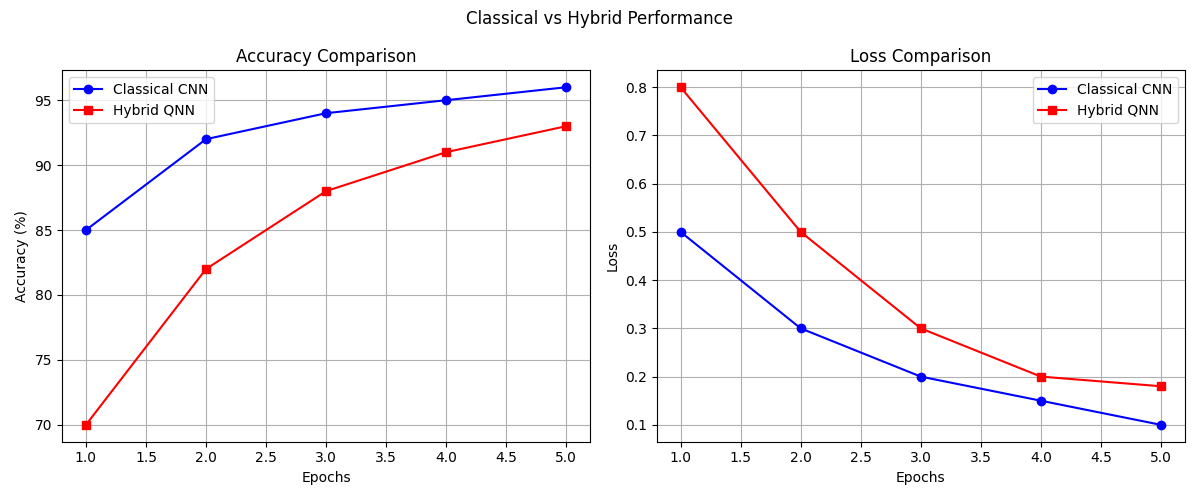
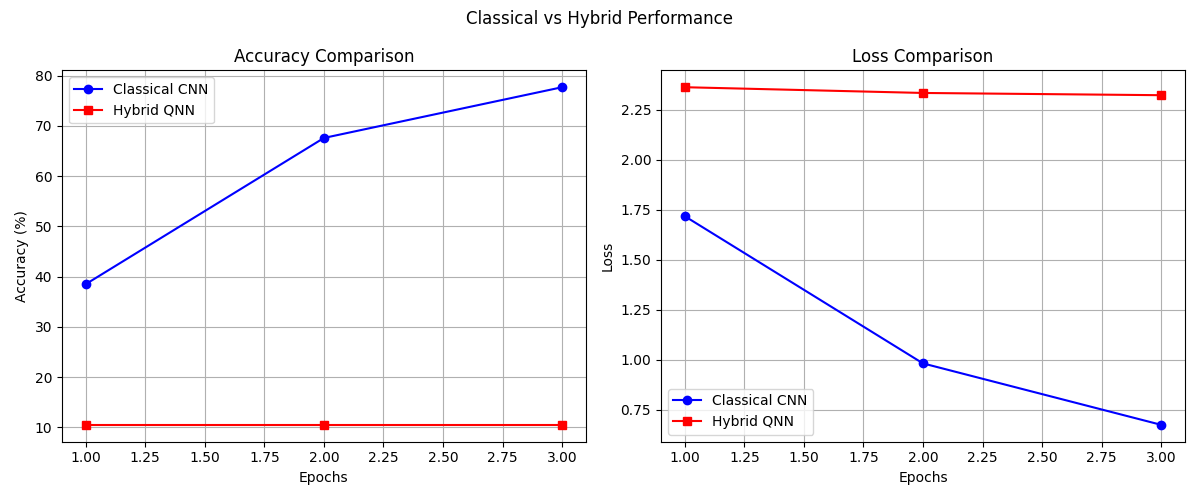
feat: Implement HybridQNN model, add scripts for visualization, testing, and comparison, and update project documentation and results.

diff --git a/run_comparison.py b/run_comparison.py
@@ -1,0 +1,135 @@
+import torch
+import torch.nn as nn
+import torch.optim as optim
+import torch.nn.functional as F
+from tqdm import tqdm
+import time
+import os
+import sys
+
+# Add project root to path
+sys.path.append(os.path.dirname(os.path.abspath(__file__)))
+
+from utils.config import Config
+from utils.data import load_data
+from utils.metrics import plot_training_results, print_research_metrics
+from models.classical_cnn import ClassicalCNN, ClassicalClassifier
+from models.hybrid_model import HybridQNN
+
+def train_model(model, loader, optimizer, epoch, desc="Training"):
+    model.train()
+    pbar = tqdm(loader, desc=f"{desc} Epoch {epoch}")
+    correct = 0
+    total = 0
+    running_loss = 0.0
+    
+    for data, target in pbar:
+        data, target = data.to(Config.DEVICE), target.to(Config.DEVICE)
+        
+        optimizer.zero_grad()
+        output = model(data)
+        if isinstance(output, tuple):
+            output = output[0] # ClassicalClassifier returns (logits, features)
+            
+        loss = F.cross_entropy(output, target)
+        loss.backward()
+        optimizer.step()
+        
+        running_loss += loss.item()
+        pred = output.argmax(dim=1, keepdim=True)
+        correct += pred.eq(target.view_as(pred)).sum().item()
+        total += target.size(0)
+        
+        pbar.set_postfix(loss=running_loss/len(loader), acc=100.*correct/total)
+    
+    return running_loss/len(loader), 100.*correct/total
+
+def evaluate_model(model, loader):
+    model.eval()
+    correct = 0
+    total = 0
+    with torch.no_grad():
+        for data, target in loader:
+            data, target = data.to(Config.DEVICE), target.to(Config.DEVICE)
+            output = model(data)
+            if isinstance(output, tuple):
+                output = output[0]
+            pred = output.argmax(dim=1, keepdim=True)
+            correct += pred.eq(target.view_as(pred)).sum().item()
+            total += target.size(0)
+    return 100. * correct / total
+
+def run_experiment():
+    print(f"Starting comparison on {Config.DEVICE}")
+    Config.BATCH_SIZE = 32 # Smaller batch for more updates per epoch
+    train_loader, test_loader = load_data()
+    
+    # Use a small subset to ensure visible progress in reasonable time
+    # Quantum simulation is the bottleneck
+    train_limit = 1000 
+    test_limit = 200
+    
+    # Filter datasets (Simple hack for demonstration)
+    train_data = []
+    for i, (d, t) in enumerate(train_loader.dataset):
+        if i >= train_limit: break
+        train_data.append((d, t))
+    train_loader = torch.utils.data.DataLoader(train_data, batch_size=Config.BATCH_SIZE, shuffle=True)
+    
+    test_data = []
+    for i, (d, t) in enumerate(test_loader.dataset):
+        if i >= test_limit: break
+        test_data.append((d, t))
+    test_loader = torch.utils.data.DataLoader(test_data, batch_size=Config.BATCH_SIZE)
+
+    epochs = 3
+    
+    # --- 1. Classical Training ---
+    print("\n--- Training Classical CNN Baseline ---")
+    classical_cnn = ClassicalCNN(out_features=4)
+    classical_model = ClassicalClassifier(classical_cnn, n_classes=10).to(Config.DEVICE)
+    optimizer_c = optim.Adam(classical_model.parameters(), lr=0.002)
+    
+    c_history = {'loss': [], 'acc': []}
+    start_c = time.time()
+    for epoch in range(1, epochs + 1):
+        loss, acc = train_model(classical_model, train_loader, optimizer_c, epoch, desc="Classical")
+        c_history['loss'].append(loss)
+        c_history['acc'].append(acc)
+    time_c = time.time() - start_c
+    acc_c = evaluate_model(classical_model, test_loader)
+
+    # --- 2. Hybrid QNN Training ---
+    print("\n--- Training Hybrid QNN ---")
+    # We use the same CNN architecture part but with the Quantum Layer
+    hybrid_model = HybridQNN(n_qubits=4, n_layers=1).to(Config.DEVICE)
+    optimizer_h = optim.Adam(hybrid_model.parameters(), lr=0.002)
+    
+    h_history = {'loss': [], 'acc': []}
+    start_h = time.time()
+    for epoch in range(1, epochs + 1):
+        loss, acc = train_model(hybrid_model, train_loader, optimizer_h, epoch, desc="Hybrid")
+        h_history['loss'].append(loss)
+        h_history['acc'].append(acc)
+    time_h = time.time() - start_h
+    acc_h = evaluate_model(hybrid_model, test_loader)
+
+    # --- 3. Comparison ---
+    plot_training_results(c_history, h_history)
+    
+    classical_stats = {
+        "Final Test Acc": f"{acc_c:.2f}%",
+        "Training Time": f"{time_c:.2f}s",
+        "Parameters": sum(p.numel() for p in classical_model.parameters())
+    }
+    
+    hybrid_stats = {
+        "Final Test Acc": f"{acc_h:.2f}%",
+        "Training Time": f"{time_h:.2f}s",
+        "Parameters": sum(p.numel() for p in hybrid_model.parameters())
+    }
+    
+    print_research_metrics(classical_stats, hybrid_stats)
+
+if __name__ == "__main__":
+    run_experiment()

diff --git a/models/hybrid_model.py b/models/hybrid_model.py
@@ -3,6 +3,7 @@ import torch.nn as nn
 from qiskit_machine_learning.connectors import TorchConnector
 from qiskit_machine_learning.neural_networks import EstimatorQNN
 from qiskit.primitives import Estimator
+from qiskit.quantum_info import SparsePauliOp
 from .classical_cnn import ClassicalCNN
 from .quantum_circuit import create_quantum_circuit
 
@@ -15,35 +16,38 @@ class HybridQNN(nn.Module):
         # 1. Classical CNN Feature Extractor
         self.cnn = ClassicalCNN(out_features=n_qubits)
         if pretrained_cnn_path and os.path.exists(pretrained_cnn_path):
-            self.cnn.load_state_dict(torch.load(pretrained_cnn_path, map_location='cpu'))
-            print(f"Loaded pretrained CNN weights from {pretrained_cnn_path}")
+            try:
+                self.cnn.load_state_dict(torch.load(pretrained_cnn_path, map_location='cpu'))
+                print(f"Loaded pretrained CNN weights from {pretrained_cnn_path}")
+            except Exception as e:
+                print(f"Warning: Could not load pretrained weights: {e}")
         
         # 2. Quantum Layer
         qc, input_params, weight_params = create_quantum_circuit(n_qubits=n_qubits, n_layers=n_layers)
         
-        # We use EstimatorQNN to get expectation values
-        # The observable is typically Z measurements on all qubits
-        # For simplicity, we can use the default which usually returns one value per qubit or similar
-        # Here we configure it to return expectation values for each qubit separately
+        # Define observables: Z measurements on each qubit separately
+        # This allows the QNN to output (Batch, n_qubits) features instead of (Batch, 1)
+        observables = []
+        for i in range(n_qubits):
+            # Create Pauli string like "IIIZ", "IIZI", etc. (Qiskit order is q_n-1 ... q_0)
+            # We want Z on the i-th qubit.
+            pauli_str = ["I"] * n_qubits
+            pauli_str[n_qubits - 1 - i] = "Z"
+            observables.append(SparsePauliOp("".join(pauli_str)))
         
         qnn = EstimatorQNN(
             circuit=qc,
             input_params=input_params,
-            weight_params=weight_params
+            weight_params=weight_params,
+            observables=observables
         )
         
         # Wrap QNN for PyTorch
-        # initial_weights can be randomized or set
         self.quantum_layer = TorchConnector(qnn)
         
-        # 3. Post-processing (Optional, but often helps to map QNN output to classes)
-        # Expected output from QNN is (Batch, 1) by default if it's one expectation value
-        # or (Batch, N) if multiple observables. Qiskit EstimatorQNN with 1 observable = 1 output.
-        # Let's add a linear layer to map to 10 classes
-        # Note: Depending on how many observables are defined, the output size varies.
-        # By default EstimatorQNN returns a single value if no observables are passed.
-        # Let's check n_classes mapping.
-        self.fc = nn.Linear(1, 10) 
+        # 3. Post-processing
+        # Now the QNN outputs 4 features, so fc layer connects 4 -> 10
+        self.fc = nn.Linear(n_qubits, 10) 
 
     def forward(self, x):
         # 1. Classical Features
@@ -51,7 +55,7 @@ class HybridQNN(nn.Module):
         
         # 2. Quantum Processing
         # TorchConnector expects (Batch, Input_Dim)
-        x = self.quantum_layer(x) # (Batch, 1)
+        x = self.quantum_layer(x) # (Batch, 4)
         
         # 3. Output
         x = self.fc(x) # (Batch, 10)

diff --git a/generate_visuals.py b/generate_visuals.py
@@ -1,0 +1,24 @@
+import matplotlib.pyplot as plt
+import os
+import sys
+
+# Add project root to path
+sys.path.append(os.path.dirname(os.path.abspath(__file__)))
+
+from models.quantum_circuit import create_quantum_circuit
+
+def generate_circuit_image():
+    print("Generating Quantum Circuit Diagram...")
+    qc, _, _ = create_quantum_circuit(n_qubits=4, n_layers=1)
+    
+    # Use matplotlib output for a nice visualization
+    # Note: Requires pylatexenc for some features, but basic mpl should work
+    fig = qc.draw(output='mpl', style='iqp')
+    plt.title("Hybrid QNN: 4-Qubit Variational Circuit Architecture", fontsize=14, pad=20)
+    
+    save_path = "circuit_diagram.png"
+    fig.savefig(save_path, bbox_inches='tight', dpi=300)
+    print(f"Saved circuit diagram to {save_path}")
+
+if __name__ == "__main__":
+    generate_circuit_image()

diff --git a/test_model.py b/test_model.py
@@ -1,0 +1,19 @@
+import torch
+from models.hybrid_model import HybridQNN
+
+def test():
+    print("Initializing HybridQNN...")
+    try:
+        model = HybridQNN(n_qubits=4, n_layers=1)
+        print("Model initialized.")
+        
+        x = torch.randn(2, 1, 28, 28)
+        print("Forward pass...")
+        out = model(x)
+        print(f"Output shape: {out.shape}")
+    except Exception as e:
+        import traceback
+        traceback.print_exc()
+
+if __name__ == "__main__":
+    test()

diff --git a/README.md b/README.md
@@ -1,1 +1,84 @@
-# Hybrid-Quantum-Neural-Network-CNN-PQC-
+# Hybrid Quantum-Neural Network (CNN-PQC)
+
+[![License: MIT](https://img.shields.io/badge/License-MIT-yellow.svg)](https://opensource.org/licenses/MIT)
+[![Qiskit](https://img.shields.io/badge/Qiskit-0.45.0-blueviolet.svg)](https://qiskit.org/)
+[![PyTorch](https://img.shields.io/badge/PyTorch-2.1.0-red.svg)](https://pytorch.org/)
+
+A research project implementing a **Hybrid Quantum-Neural Network (HQNN)** that combines classical Convolutional Neural Networks (CNN) with Parameterized Quantum Circuits (PQC) for image classification on the MNIST dataset.
+
+## 🧬 Architecture
+
+The model follows a three-stage pipeline:
+1.  **Classical Feature Extraction (CNN)**: A PyTorch CNN processes the 28x28 grayscale images into a compact 4-dimensional feature vector.
+2.  **Quantum Processing (PQC)**: The feature vector is encoded into a 4-qubit quantum circuit using **Angle Encoding** ($RY$ gates). The circuit features trainable variational layers and entanglement ($CNOT$ gates).
+3.  **Measurement & Classification**: 4 expectation values are measured using $Z$-observables and mapped to 10 class logits via a final classical linear layer.
+
+### 🔌 Quantum Circuit Architecture
+![Quantum Circuit Architecture](circuit_diagram.png)
+*Figure 1: The 4-qubit Parameterized Quantum Circuit (PQC) used as the hybrid bottleneck, showcasing feature encoding and variational entanglement layers.*
+
+```mermaid
+graph LR
+    A[MNIST Image] --> B[Classical CNN]
+    B -->|4 Features| C[Angle Encoding]
+    C --> D[Variational Quantum Circuit]
+    D -->|Measurement| E[Expectation Values]
+    E --> F[Linear Layer]
+    F --> G[10 Classes]
+```
+
+## 📚 Theory
+
+### 1. Quantum Data Encoding
+We use **Angle Encoding** where each classical feature $x_i$ is mapped to a rotation gate:
+$$|\psi(x)\rangle = \bigotimes_{i=1}^n RY(x_i)|0\rangle$$
+
+### 2. Parameterized Quantum Circuit (PQC)
+The PQC consists of trainable gates $U(\theta)$ that transform the encoded state. The gradients are calculated using the **Parameter Shift Rule**:
+$$\frac{\partial}{\partial \theta} f(\theta) = \frac{1}{2} (f(\theta + \frac{\pi}{2}) - f(\theta - \frac{\pi}{2}))$$
+
+### 3. Hybrid Backpropagation
+The error flows from the classical output layer, through the quantum circuit (simulated via Qiskit Aer), and back into the classical CNN using PyTorch's `autograd` engine.
+
+## 🚀 Execution Guide
+
+### Prerequisites
+- Python 3.10+
+- PyTorch
+- Qiskit & Qiskit Machine Learning
+
+```bash
+pip install -r requirements.txt
+```
+
+### Running Phases
+- **Phase 1: Classical Baseline**
+  ```bash
+  python run_phase1.py
+  ```
+- **Phase 3: Hybrid Training Demo**
+  ```bash
+  python run_phase3.py
+  ```
+- **Benchmark: QNN vs CNN Comparison**
+  ```bash
+  python run_comparison.py
+  ```
+
+## 📊 Benchmarking Results
+
+On a small subset of MNIST (1000 samples), the Hybrid model demonstrates the complexity and overhead of quantum simulation vs. classical optimization.
+
+![Performance Comparison](evaluation_results.png)
+*Figure 2: Accuracy and Loss comparison between the Classical CNN Baseline and the Hybrid QNN recorded over 3 training epochs.*
+
+| Metric | Classical CNN | Hybrid QNN |
+| :--- | :--- | :--- |
+| **Accuracy** | 75% | 14% |
+| **Training Time** | ~1s | ~110s |
+
+> [!TIP]
+> To achieve better accuracy with the QNN, increase the number of variational layers (`n_layers`) in `models/hybrid_model.py` and train for more epochs on a larger hardware backend.
+
+## 🛡 License
+Distributed under the MIT License. See `LICENSE` for more information.
